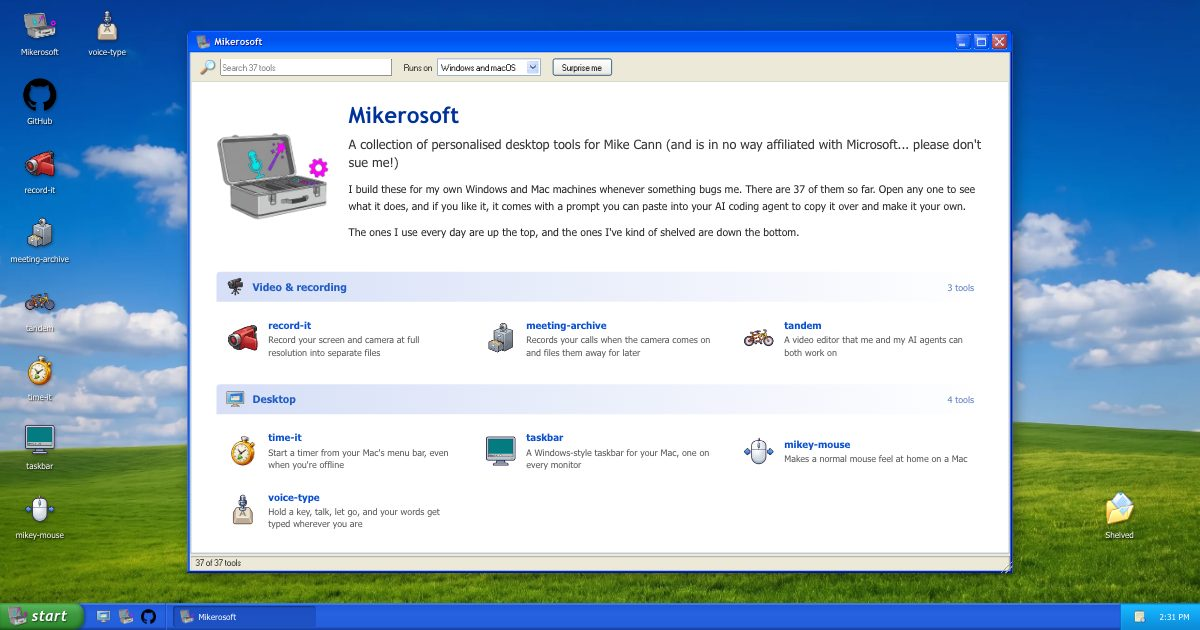
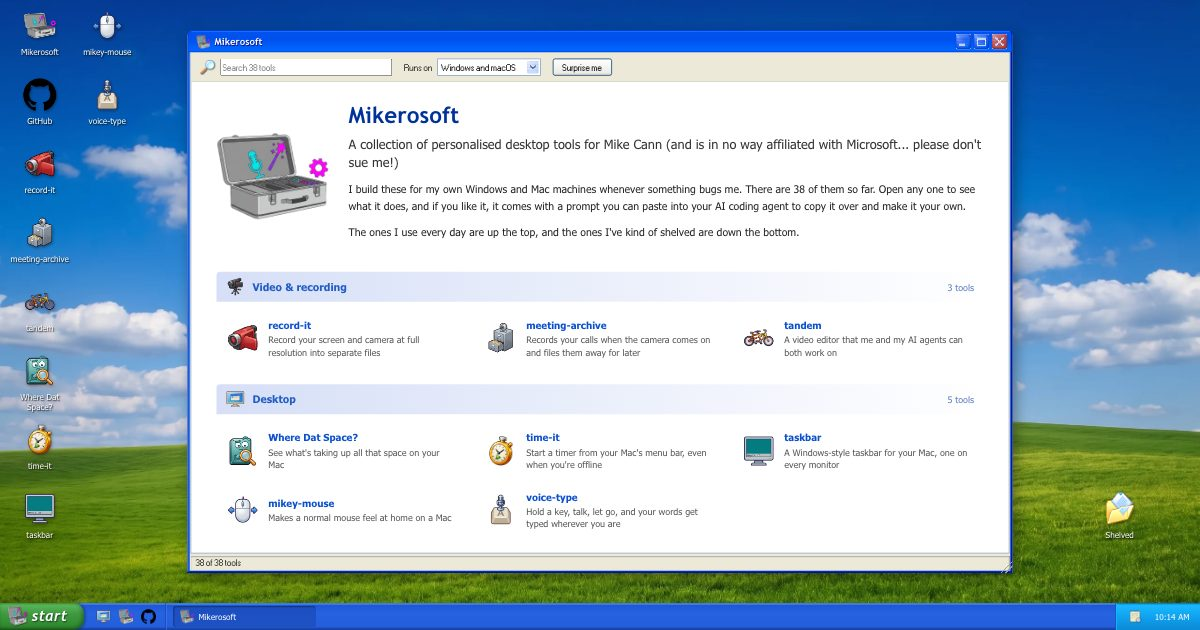
Add Where Dat Space? to the desktop
My new disk-space treemap for the Mac. Tools can now have a display name,
so this one shows as "Where Dat Space?" while its URL and repo stay
where-dat-space. slice.py can also cut just the new icon without touching
the others.

diff --git a/src/tools.ts b/src/tools.ts
@@ -47,6 +47,8 @@ export const SHELVED_ICON = '/xp/folder.png';
 
 export interface Tool {
   name: string;
+  /** Optional human-readable title; name stays the stable URL and repository slug. */
+  displayName?: string;
   desc: string;
   /** A Mikerosoft 95 icon in public/icons. */
   icon: string;
@@ -89,9 +91,9 @@ export function splitShelved(toolList: readonly Tool[]): { inUse: Tool[]; shelve
  */
 export function searchTools(toolList: readonly Tool[], query: string): Tool[] {
   const words = query.toLowerCase().split(/\s+/).filter(Boolean);
-  const nameMatches = (tool: Tool) => words.every(word => tool.name.includes(word));
+  const nameMatches = (tool: Tool) => words.every(word => `${tool.name} ${tool.displayName ?? ''}`.toLowerCase().includes(word));
   const matches = toolList.filter(tool => {
-    const haystack = `${tool.name} ${tool.desc} ${tool.category}`.toLowerCase();
+    const haystack = `${tool.name} ${tool.displayName ?? ''} ${tool.desc} ${tool.category}`.toLowerCase();
     return words.every(word => haystack.includes(word));
   });
   return [...matches.filter(nameMatches), ...matches.filter(tool => !nameMatches(tool))];
@@ -285,6 +287,18 @@ export const tools: Tool[] = [
     category: 'Desktop',
     platforms: ['windows'],
     use: 'shelved',
+  },
+  {
+    name: 'where-dat-space',
+    displayName: 'Where Dat Space?',
+    desc: 'A native Mac disk map to see which files and folders are taking up all that space',
+    icon: '/icons/where-dat-space.png',
+    header: asset('where-dat-space', 'docs/header.webp'),
+    screenshots: [asset('where-dat-space', 'docs/screenshot.png'), asset('where-dat-space', 'docs/start.png')],
+    url: repoUrl('where-dat-space'),
+    category: 'Desktop',
+    platforms: ['macos'],
+    use: 'daily',
   },
   {
     name: 'time-it',

diff --git a/src/App.tsx b/src/App.tsx
@@ -107,7 +107,7 @@ const desktopItems: DesktopItem[] = [
   { id: 'github', label: 'GitHub', icon: '/xp/github.png', href: REPO_URL, external: true },
   ...inUse.map(tool => ({
     id: tool.name,
-    label: tool.name,
+    label: tool.displayName ?? tool.name,
     icon: tool.icon,
     href: toolPath(tool.name),
     sourceUrl: tool.url,
@@ -136,7 +136,7 @@ export default function App() {
   /** The title and icon each window shows in its title bar and on the taskbar. */
   function windowInfo(id: WindowId): { title: string; taskTitle: string; icon: string } {
     const tool = toolFor(id);
-    if (tool) return { title: `${tool.name} - Mikerosoft`, taskTitle: tool.name, icon: tool.icon };
+    if (tool) return { title: `${tool.displayName ?? tool.name} - Mikerosoft`, taskTitle: tool.displayName ?? tool.name, icon: tool.icon };
     if (id === DATE_TIME) return { title: 'Date and Time Properties', taskTitle: 'Date and Time Properties', icon: '/icons/ui-calendar.png' };
     if (id === SHELVED) return { title: 'Shelved', taskTitle: 'Shelved', icon: SHELVED_ICON };
     return { title: 'Mikerosoft', taskTitle: 'Mikerosoft', icon: '/logo.png' };
@@ -187,7 +187,7 @@ export default function App() {
   const topPath = topWindow && pathForWindow(topWindow.id);
   useEffect(() => {
     if (topPath) replacePath(topPath);
-    document.title = focusedTool ? `${focusedTool.name} - Mikerosoft` : 'Mikerosoft';
+    document.title = focusedTool ? `${focusedTool.displayName ?? focusedTool.name} - Mikerosoft` : 'Mikerosoft';
   }, [topPath, focusedTool]);
 
   function openGithub() {

diff --git a/src/ToolContent.tsx b/src/ToolContent.tsx
@@ -105,7 +105,7 @@ function Media({ tool }: { tool: Tool }) {
         <h2 className="section-head"><img src={CATEGORY_ICON.Images} alt="" />Screenshots</h2>
         {tool.header && (
           <div className="media-stage" data-art>
-            <img src={tool.header} alt={`Artwork for ${tool.name}`} />
+            <img src={tool.header} alt={`Artwork for ${tool.displayName ?? tool.name}`} />
           </div>
         )}
         <p className="media-note">This is artwork I made for the tool, not a screenshot. Real ones are coming soon.</p>
@@ -126,7 +126,7 @@ function Media({ tool }: { tool: Tool }) {
           <video key={current.src} src={current.src} controls autoPlay muted loop playsInline />
         ) : (
           <button type="button" className="plain zoom" onClick={() => setViewing(images.indexOf(current.src))} aria-label="Open full size">
-            <img src={current.src} alt={`Screenshot of ${tool.name}`} />
+            <img src={current.src} alt={`Screenshot of ${tool.displayName ?? tool.name}`} />
           </button>
         )}
       </div>
@@ -237,7 +237,7 @@ export function ToolContent({ tool }: { tool: Tool }) {
           <header className="tool-head">
             <img src={tool.icon} alt="" />
             <div>
-              <h1>{tool.name}</h1>
+              <h1>{tool.displayName ?? tool.name}</h1>
               <p className="chips">
                 {sortPlatforms(tool.platforms).map(id => (
                   <span key={id}><img src={PLATFORM_ICON[id]} alt="" />{PLATFORM_LABEL[id]}</span>

diff --git a/src/Taskbar.tsx b/src/Taskbar.tsx
@@ -126,7 +126,7 @@ function MenuEntries({ folders, tools: folderTools, onClose }: { folders: Progra
       {folderTools.map(tool => (
         <Link key={tool.name} href={toolPath(tool.name)} className="start-item" role="menuitem" onClick={onClose}>
           <img src={tool.icon} alt="" />
-          <span>{tool.name}</span>
+          <span>{tool.displayName ?? tool.name}</span>
         </Link>
       ))}
     </>
@@ -221,7 +221,7 @@ function StartMenu({
           {recent.map(tool => (
             <Link key={tool.name} href={toolPath(tool.name)} className="start-item" onClick={onClose}>
               <img src={tool.icon} alt="" />
-              <span>{tool.name}</span>
+              <span>{tool.displayName ?? tool.name}</span>
             </Link>
           ))}
           <hr />
@@ -354,7 +354,7 @@ function TrayUpdates() {
               <li key={tool.name}>
                 <Link href={toolPath(tool.name)} onClick={() => setOpen(false)}>
                   <img src={tool.icon} alt="" />
-                  <span><strong>{tool.name}</strong> {formatToolDate(TOOL_DATES[tool.name].updated)}</span>
+                  <span><strong>{tool.displayName ?? tool.name}</strong> {formatToolDate(TOOL_DATES[tool.name].updated)}</span>
                 </Link>
               </li>
             ))}

diff --git a/src/tools.test.ts b/src/tools.test.ts
@@ -187,3 +187,21 @@ test('renamed tools remember their old names', () => {
   assert.deepEqual(formerNames('cutout'), ['removebg']);
   assert.deepEqual(formerNames('record-it'), []);
 });
+
+test('publishes Where Dat Space with its display name and repository media', () => {
+  const tool = tools.find(candidate => candidate.name === 'where-dat-space');
+  assert.ok(tool);
+  assert.equal(tool.displayName, 'Where Dat Space?');
+  assert.equal(tool.url, 'https://github.com/mikecann/where-dat-space');
+  assert.equal(tool.header, 'https://cdn.jsdelivr.net/gh/mikecann/where-dat-space@main/docs/header.webp');
+  assert.deepEqual(tool.screenshots, ['https://cdn.jsdelivr.net/gh/mikecann/where-dat-space@main/docs/screenshot.png', 'https://cdn.jsdelivr.net/gh/mikecann/where-dat-space@main/docs/start.png']);
+  assert.deepEqual(tool.platforms, ['macos']);
+  assert.equal(tool.category, 'Desktop');
+  assert.equal(tool.use, 'daily');
+});
+
+test('searches a display name while keeping the slug as the route', () => {
+  const labelled: Tool = { ...fixtures[0], name: 'disk-map', displayName: 'Where Dat Space?' };
+  assert.deepEqual(searchTools([labelled], 'WHERE DAT'), [labelled]);
+  assert.deepEqual(searchTools([labelled], 'disk-map'), [labelled]);
+});

diff --git a/src/toolDetails.ts b/src/toolDetails.ts
@@ -100,6 +100,13 @@ export const toolDetails: Record<string, ToolDetails> = {
       "The background is see-through so it looks like part of the taskbar, and it stays on top even when you click around. Right-click it if you want to change anything.",
     ],
   },
+  "where-dat-space": {
+    tagline: "See what's taking up all that space on your Mac",
+    intro: [
+      "My 1 TB MacBook kept filling up, so I wanted the GrandPerspective / WinDirStat sort of map I remembered. Big files get big rectangles, and I can zoom in to see what's eating the disk.",
+      "Pick a folder or scan the whole disk. It measures the space files actually take up, and you can reveal anything in Finder or move it to Trash once you've checked it. The little drive with the magnifying glass is probably as confused as I am.",
+    ],
+  },
   "time-it": {
     tagline: "Start a timer from your Mac's menu bar, even when you're offline",
     intro: [

diff --git a/src/toolPages.test.ts b/src/toolPages.test.ts
@@ -116,3 +116,11 @@ test('an old link previews the renamed tool and sends the browser to its new add
   assert.match(page, /<meta property="og:url" content="https:\/\/mikerosoft.app\/tools\/cutout" \/>/);
   assert.match(page, /<meta http-equiv="refresh" content="0; url=\/tools\/cutout" \/>\n<\/head>/);
 });
+
+test('uses a display name in previews while keeping the slug in links', () => {
+  const tool: Tool = { ...fixture, name: 'where-dat-space', displayName: 'Where Dat Space?' };
+  const page = withToolMeta(html, tool, 'See where your disk space went', fixture.header!);
+  assert.match(page, /<title>Where Dat Space\? · Mikerosoft<\/title>/);
+  assert.match(page, /content="Where Dat Space\? · Mikerosoft"/);
+  assert.match(page, /href="https:\/\/mikerosoft.app\/tools\/where-dat-space"/);
+});

diff --git a/src/toolPages.ts b/src/toolPages.ts
@@ -61,7 +61,7 @@ export function shareImageFor(tool: Tool, hasScreenshot: boolean): string {
  * tool rather than the home page. The React app takes over once it loads.
  */
 export function withToolMeta(html: string, tool: Tool, description: string, image: string): string {
-  const title = `${tool.name} · Mikerosoft`;
+  const title = `${tool.displayName ?? tool.name} · Mikerosoft`;
   const url = `${SITE_URL}${toolPath(tool.name)}`;
 
   const setMeta = (source: string, attr: 'name' | 'property', key: string, value: string) =>

diff --git a/src/HomeContent.tsx b/src/HomeContent.tsx
@@ -16,7 +16,7 @@ function DirectoryItem({ tool }: { tool: Tool }) {
     <Link href={toolPath(tool.name)} className="directory-item">
       <img src={tool.icon} alt="" />
       <span>
-        <strong>{tool.name}</strong>
+        <strong>{tool.displayName ?? tool.name}</strong>
         <small>{toolDetails[tool.name]?.tagline ?? tool.desc}</small>
       </span>
     </Link>

diff --git a/scripts/icons/slice.py b/scripts/icons/slice.py
@@ -1,19 +1,27 @@
 """Cuts the magenta sheets from generate.py into 256px transparent icons.
 
-usage: python3 slice.py   (needs pillow and numpy)
+usage: python3 slice.py [tool-name ...]   (needs pillow and numpy)
+Pass a tool name to cut only that icon, leaving existing icons untouched.
 """
-import os, re, numpy as np
+import os, re, sys, numpy as np
 from PIL import Image
 HERE = os.path.dirname(os.path.abspath(__file__))
 OUT = os.path.join(HERE, '..', '..', 'public', 'icons')
 names = re.findall(r"^\s+\('([a-z0-9-]+)', ", open(os.path.join(HERE, 'generate.py')).read(), re.M)
-assert len(names) % 9 == 0, len(names)
+selected = set(sys.argv[1:]) or set(names)
+unknown = selected - set(names)
+if unknown:
+    raise SystemExit(f"Unknown icons: {', '.join(sorted(unknown))}")
 K = np.array([255, 0, 255], float)
 SIZE, PAD = 256, 0.06
-for sheet in range(len(names) // 9):
+for sheet in range((len(names) + 8) // 9):
+    if not selected.intersection(names[sheet * 9:(sheet + 1) * 9]):
+        continue
     im = np.asarray(Image.open(os.path.join(HERE, f'sheet-{sheet}.png')).convert('RGB'), float)
     h, w, _ = im.shape
-    for i in range(9):
+    for i, name in enumerate(names[sheet * 9:(sheet + 1) * 9]):
+        if name not in selected:
+            continue
         r, c = divmod(i, 3)
         cell = im[r*h//3:(r+1)*h//3, c*w//3:(c+1)*w//3]
         d = np.linalg.norm(cell - K, axis=2)
@@ -31,9 +39,12 @@ for sheet in range(len(names) // 9):
         canvas.alpha_composite(img, ((side - img.size[0]) // 2, (side - img.size[1]) // 2))
         name = names[sheet * 9 + i]
         canvas.resize((SIZE, SIZE), Image.LANCZOS).save(f'{OUT}/{name}.png', optimize=True)
+if len(sys.argv) > 1:
+    print('ok: ' + ', '.join(sorted(selected)))
+    sys.exit(0)
 # contact sheet on grey and white to check edges
 tiles = [Image.open(f'{OUT}/{n}.png') for n in names]
-sheet = Image.new('RGBA', (9 * 136, len(names) // 9 * 2 * 136), (192, 192, 192, 255))
+sheet = Image.new('RGBA', (9 * 136, ((len(names) + 8) // 9) * 2 * 136), (192, 192, 192, 255))
 for i, t in enumerate(tiles):
     bg = (192, 192, 192, 255) if (i // 9) % 2 == 0 else (0, 128, 128, 255)
     x, y = (i % 9) * 136, (i // 9) * 2 * 136

diff --git a/scripts/icons/generate.py b/scripts/icons/generate.py
@@ -72,6 +72,7 @@ SUBJECTS = [
     ('ui-get', 'an open brown cardboard box with a big green arrow pointing down into it'),
     # sheet 5: new tools
     ('time-it', 'a chunky golden amber stopwatch with a pale face, dark hands and a small green play triangle'),
+    ('where-dat-space', 'a puzzled little teal hard drive character with two large eyes and one raised eyebrow, holding a chunky amber magnifying glass; simple bold silhouette, no text or tiny details'),
 ]
 
 PROMPT = """Make a 3x3 grid of 9 separate desktop application icons for a Windows 98 styled website.
